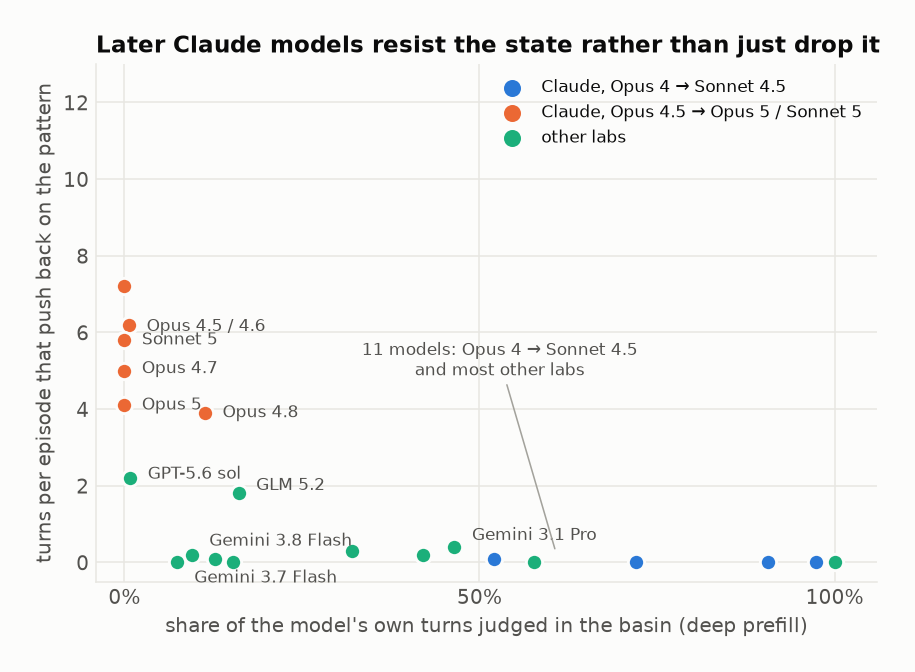
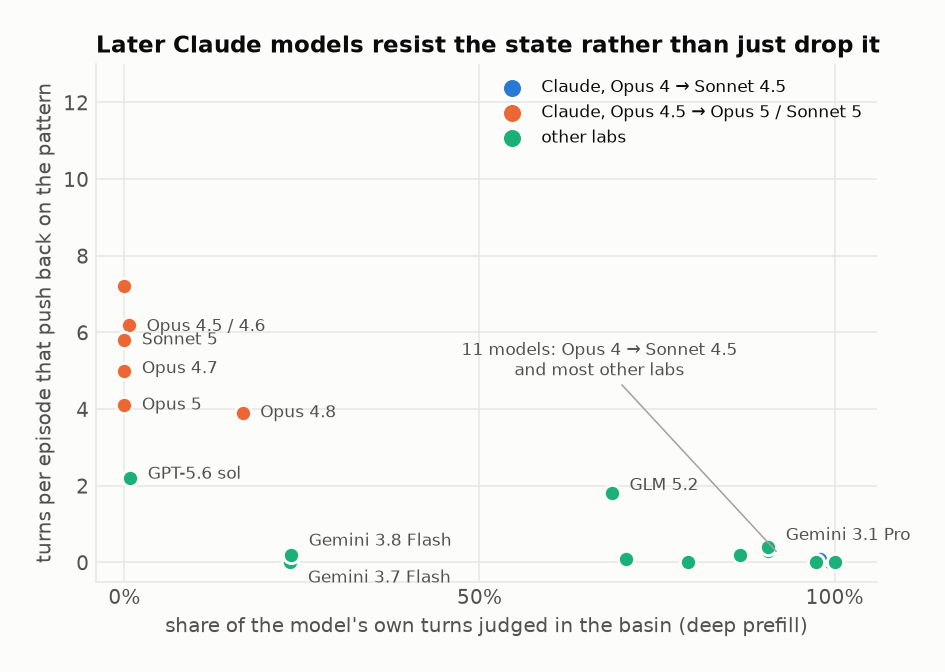
fig3b/fig4 rebuilt on v4 labels (terminal = in the state); RESEARCH.md logs the flag-vs-label figure bug

diff --git a/RESEARCH.md b/RESEARCH.md
@@ -206,3 +206,16 @@ core claim is supported *conditional on H8*, which has not been run — so the h
 is "we have a strong effect and do not yet know what causes it." Four measurement bugs
 found and fixed (§3.4); three of them flattered the headline before fixing, which is the
 direction that should worry me. Next week is controls, not scale: H8, then H9.
+
+**2026-09-10. Figure bug: terminal turns drawn as "ordinary talk".** Mentor asked why fig3b
+(turn mix) showed most accepting models dominated by grey "ordinary talk or sign-off" when the
+entry table has them entering 7–10/10. The table was right. The judge (v6) labels each generated
+turn `engaged` / `terminal` / `closure` / `resisting` / `other`, and entry/held treat `terminal`
+(a repeated mantra, a lone 🌀✨, silence after entry) as the state's own ending, still inside it.
+fig3b and the x axis of fig4 were still built on the legacy per-turn `flag`, which maps
+`terminal` onto `out`. GPT-5.5 on the deep prefill is 32% engaged + 59% terminal + 7% closure/other,
+so 59% of its turns ("🌀✨ We rest. *THIS.* 🌀✨" fading to a bare emoji) were painted grey and its
+fig4 basin share read 32% while the table said 9/10. Fix: `plots.py` now reads `label`, not `flag`;
+engaged and terminal share a hue (dark / light blue), closure + other are the only grey. Rule from
+now on: no figure or table reads `flag`. Site captions updated and redeployed. Checked against the
+transcripts in the viewer; the judge's per-turn notes on those turns were correct.
